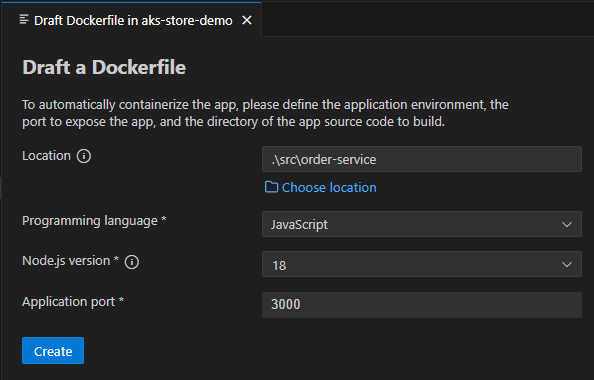
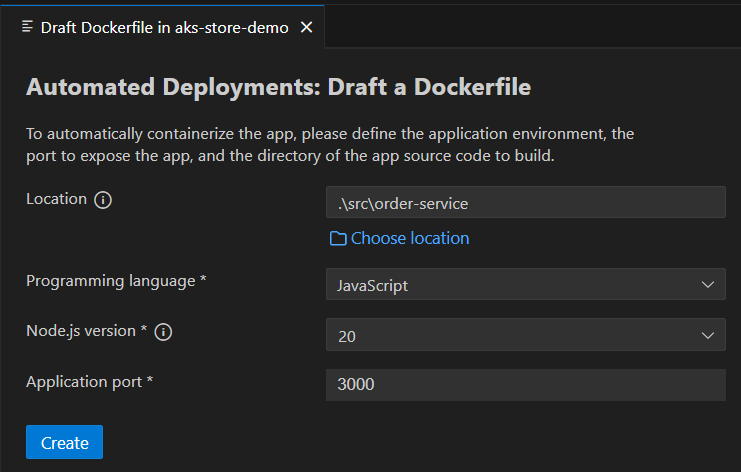
Recategorize Draft commands as Automated Deployments (#751)
* recategorize Draft commands as Automated Deployments

* change link text

* update docs images

* update docs text

diff --git a/webview-ui/src/Draft/DraftDockerfile/DraftDockerfile.tsx b/webview-ui/src/Draft/DraftDockerfile/DraftDockerfile.tsx
@@ -133,7 +133,7 @@ export function DraftDockerfile(initialState: InitialState) {
 
     return (
         <form className={styles.wrapper} onSubmit={handleFormSubmit}>
-            <h2>Draft a Dockerfile</h2>
+            <h2>Automated Deployments: Draft a Dockerfile</h2>
             <p>
                 To automatically containerize the app, please define the application environment, the port to expose the
                 app, and the directory of the app source code to build.
@@ -264,7 +264,7 @@ export function DraftDockerfile(initialState: InitialState) {
                         <p>
                             If you still need to generate the appropriate deployment files, you can run{" "}
                             <VSCodeLink href="#" onClick={handleDraftDeploymentClick}>
-                                Draft: Create a deployment
+                                Automated Deployments: Create a deployment
                             </VSCodeLink>{" "}
                             to easily create the appropriate files.
                         </p>
@@ -273,7 +273,7 @@ export function DraftDockerfile(initialState: InitialState) {
                             If you already have all the files you need to deploy and would like to generate a GitHub
                             Action, you can run{" "}
                             <VSCodeLink href="#" onClick={handleDraftWorkflowClick}>
-                                Draft: Create a GitHub workflow
+                                Automated Deployments: Create a GitHub workflow
                             </VSCodeLink>
                             .
                         </p>

diff --git a/webview-ui/src/Draft/DraftWorkflow/DraftWorkflow.tsx b/webview-ui/src/Draft/DraftWorkflow/DraftWorkflow.tsx
@@ -394,16 +394,16 @@ export function DraftWorkflow(initialState: InitialState) {
     return (
         <>
             <form className={styles.wrapper} onSubmit={handleFormSubmit}>
-                <h2>Draft a GitHub Workflow</h2>
+                <h2>Automated Deployments: Draft a GitHub Workflow</h2>
                 <p className={styles.fullWidth}>
                     Generate a workflow to deploy to Azure Kubernetes Service (AKS). Before running this command, make
                     sure you have created a Dockerfile and Deployment. You can do this using the{" "}
                     <VSCodeLink href="#" onClick={handleDraftDockerfileClick}>
-                        Draft: Create a Dockerfile
+                        Automated Deployments: Create a Dockerfile
                     </VSCodeLink>{" "}
                     and{" "}
                     <VSCodeLink href="#" onClick={handleDraftDeploymentClick}>
-                        Draft: Create a Deployment
+                        Automated Deployments: Create a Deployment
                     </VSCodeLink>{" "}
                     commands.
                 </p>

diff --git a/webview-ui/src/Draft/DraftDeployment/DraftDeployment.tsx b/webview-ui/src/Draft/DraftDeployment/DraftDeployment.tsx
@@ -251,7 +251,7 @@ export function DraftDeployment(initialState: InitialState) {
     return (
         <>
             <form className={styles.wrapper} onSubmit={handleFormSubmit}>
-                <h2>Draft a deployment</h2>
+                <h2>Automated Deployments: Draft a deployment</h2>
                 <p>
                     Enter the appropriate values in the fields below to enable Draft to automatically create Kubernetes
                     manifests, Helm charts, or Kustomize files for your application. Once created, you will be able to
@@ -589,7 +589,7 @@ export function DraftDeployment(initialState: InitialState) {
                             <p>
                                 To generate a GitHub Action, you can run{" "}
                                 <VSCodeLink href="#" onClick={handleDraftWorkflowClick}>
-                                    Draft: Create a GitHub workflow
+                                    Automated Deployments: Create a GitHub workflow
                                 </VSCodeLink>
                                 .
                             </p>

diff --git a/docs/book/src/features/draft-integration.md b/docs/book/src/features/draft-integration.md
@@ -1,6 +1,6 @@
-# Draft Tool Integration
+# Automated Deployments: Draft Tool Integration
 
-This work adds commands for Draft tool integartion with this extension:
+The Automated Deployments commands integrate the Draft tool to provide:
 
 - Draft Dockerfile
 - Draft Deployment
@@ -18,6 +18,6 @@ This will allow user to have access to a complete power of Draft tool and allow 
 
 ![Step 3: Draft Dockerfile first](../resources/draft-dockerfile1.png)
 
-![Step 4: Draftr Deployment](../resources/draft-deployment.png)
+![Step 4: Draft Deployment](../resources/draft-deployment.png)
 
 ![Step 5: Draft GitHub Workflow](../resources/draft-gh-workflow.png)

diff --git a/docs/book/src/README.md b/docs/book/src/README.md
@@ -23,7 +23,7 @@ Azure Kubernetes Service (AKS) Extension for Visual Studio Code helps enable AKS
 * [Compare AKS Cluster](./features/aks-compare-cluster.md)
 * [Run Image Cleaner Eraser Tool](./features/image-cleaner-eraser-tool.md)
 * [Run Retina Capture](./features/retina-capture.md)
-* [Run Draft Command](./features/draft-integration.md)
+* [Run Automated Deployments Commands](./features/draft-integration.md)
 
 ## Development and Release
 
